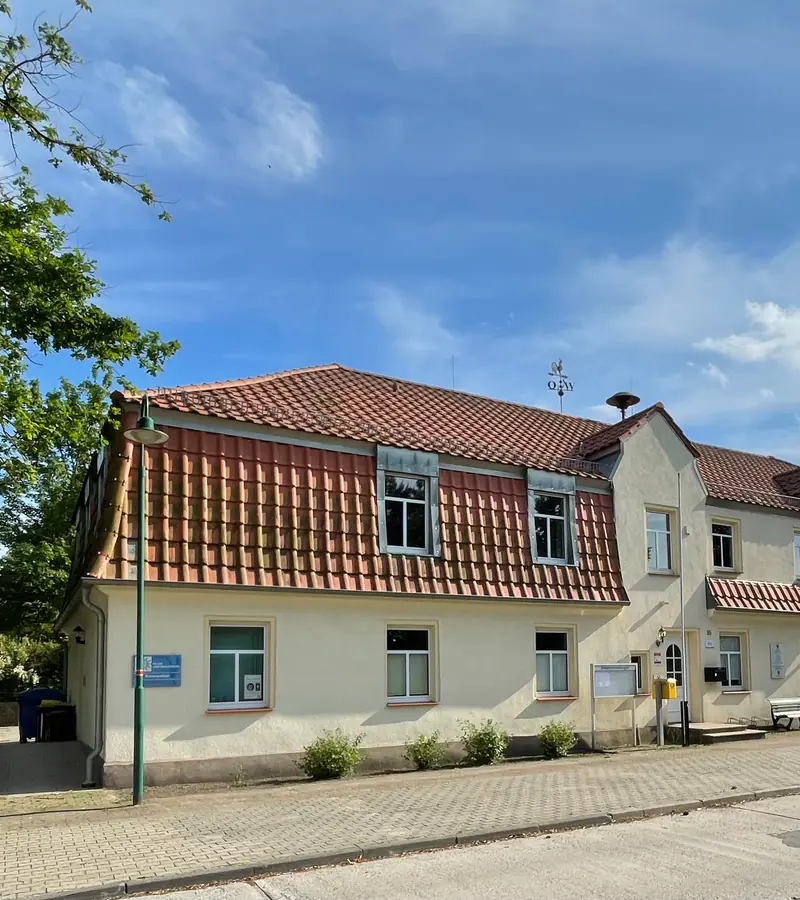
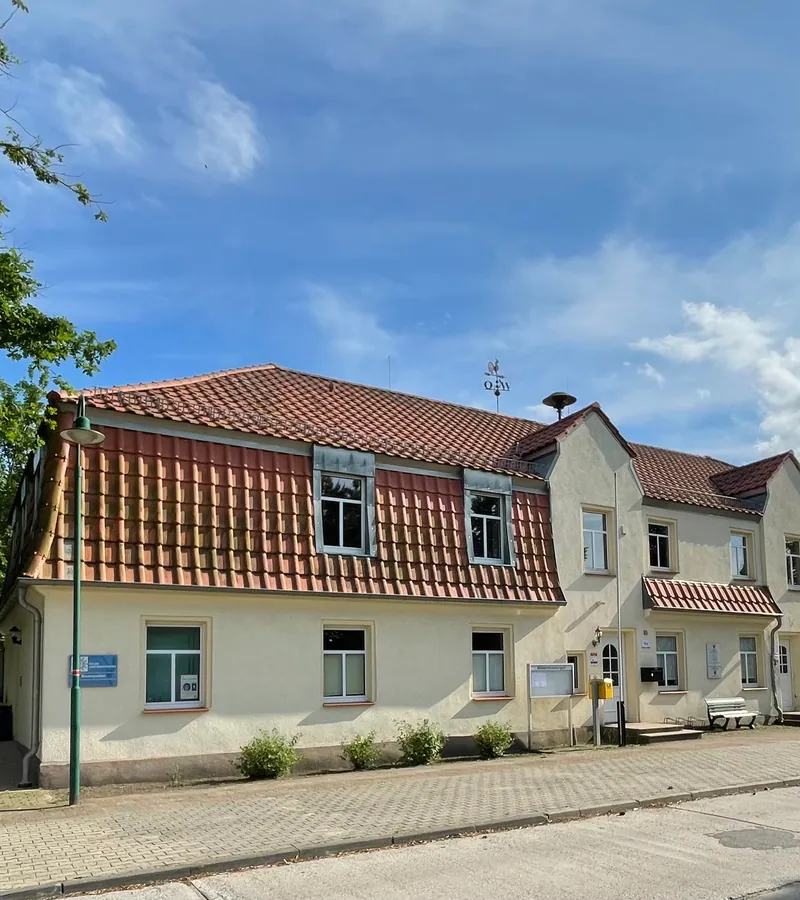
Declare a focal point per motif, and give / the Melkerschule
Every placed image of the four pages this task owns now declares the motif's
focal point, and the five entries whose motif or crop the review of 2026-09-22
names are re-placed with it.

`/` takes the photograph the owner picked (line 29): Wikimedia Commons
`File:Melkerschule Schlatkow.jpg`, Jan-Henrik Hempel, own work, CC BY-SA 4.0 —
a village building in use, which is the motif rule for this page, where the
Rathebur street was a village without activity. Share-alike obliges the site
to attribute, so `content/legal/image-credits.md` gains its line and loses the
Rathebur one.

`/mitmachen` keeps its photograph because no cleared flyer/phone/hand motif
exists, and answers the review's "zu düster und zu traurig" with the crop: the
frame now holds the people, the tables and the fire instead of a grey sky.
`/dein-kalender` is verified rather than swapped — the review says of this very
photo that a Gemeindehaus is already visible. `/ueber-uns` takes the open-air
photograph from the openTransfer CAMP in Neustrelitz (line 436), cleared in
`@schafe-vorm-fenster/people`, cropped so the handwritten name badge stays in
frame; the entry keeps its id, slot, ratio and `lcp: true`, so the declared LCP
element of TS-WEB-0003 D2 is unchanged.

DEC-0139 records the values and the three motifs that stay as they are;
state/open.md 266-269 carry the missing flyer photograph, the Schaukasten
composition, the portrait asset's own "not a portrait" note and the two
[…]

diff --git a/content/legal/image-credits.md b/content/legal/image-credits.md
@@ -14,8 +14,9 @@ anchor: bildnachweise
 Diese Seite nennt jedes Foto, das auf dieser Website zu sehen ist, mit
 Urheber, Lizenz und Quelle. Die Angaben stehen hier und nicht als
 Bildunterschrift am Foto: Wo eine Lizenz die Namensnennung verlangt, ist
-sie an dieser Stelle erfüllt — außer beim Porträt vom NØRD Award 2026,
-dessen Rechteinhaber die Nennung direkt am Bild verlangt.
+sie an dieser Stelle erfüllt — außer beim Porträt vom openTransfer CAMP
+in Neustrelitz, dessen Rechteinhaber die Nennung erbittet und bei dem sie
+deshalb zusätzlich direkt am Bild steht.
 
 Die maßgebliche Liste ist das Bildverzeichnis der Seiten selbst
 (`images:` im Frontmatter unter `content/pages/`). Kommt ein Foto dazu,
@@ -30,7 +31,6 @@ Website sind dieselbe Partei.
 Unter **CC0 1.0** auf Wikimedia Commons veröffentlicht — gemeinfrei, die
 Nennung hier ist freiwillig:
 
-- [Rathebur, Dorfstraße](https://commons.wikimedia.org/wiki/File:Rathebur,_Dorfstra%C3%9Fe.jpg) — Startseite, Hero
 - [Dargitz, Bushaltestelle](https://commons.wikimedia.org/wiki/File:Dargitz,_Bushaltestelle.jpg) — Dein Ort, Hero
 - [Groß Luckow, Feuerwehr und Gemeindezentrum](https://commons.wikimedia.org/wiki/File:Gro%C3%9F_Luckow,_Feuerwehr_und_Gemeindezentrum.jpg) — Dein Ort gründen, Hero
 - [Güterberg, Ausblick](https://commons.wikimedia.org/wiki/File:G%C3%BCterberg,_Ausblick.jpg) — Deine Region, Hero
@@ -40,6 +40,7 @@ Nennung hier ist freiwillig:
 
 Unter **CC BY-SA 4.0** auf Wikimedia Commons veröffentlicht:
 
+- [Melkerschule Schlatkow](https://commons.wikimedia.org/wiki/File:Melkerschule_Schlatkow.jpg) — Startseite, Hero. Jan-Henrik Hempel, [CC BY-SA 4.0](https://creativecommons.org/licenses/by-sa/4.0/deed.de)
 - [Bauhof und Schafstall in Schlatkow](https://commons.wikimedia.org/wiki/File:Bauhof_und_Schafstall_in_Schlatkow.jpeg) — Über uns, Hero. Schafe vorm Fenster, [CC BY-SA 4.0](https://creativecommons.org/licenses/by-sa/4.0/deed.de)
 - [Osterfeuer 2023 in Schmatzin](https://commons.wikimedia.org/wiki/File:Osterfeuer_2023_in_Schmatzin.jpg) — Mitmachen, Hero. Jan-Henrik Hempel, [CC BY-SA 4.0](https://creativecommons.org/licenses/by-sa/4.0/deed.de)
 - [Dorftreffpunkt, Schmatzin](https://commons.wikimedia.org/wiki/File:Dorftreffpunkt,_Schmatzin,_Deutschland.jpeg) — Mitmachen, Publizierweg eigener Kalender. Jan-Henrik Hempel, [CC BY-SA 4.0](https://creativecommons.org/licenses/by-sa/4.0/deed.de)
@@ -54,7 +55,7 @@ nötig:
 ## Aufnahmen Dritter
 
 - [Rathaus Gützkow](https://commons.wikimedia.org/wiki/File:Guetzkow_Ostvorpommern_Rathaus.jpg) — Startseite, Szene Einbindung. Foto: Erell, [CC BY-SA 2.5](https://creativecommons.org/licenses/by-sa/2.5/deed.de), über Wikimedia Commons, unverändert bis auf den Bildausschnitt
-- Porträt vom NØRD Award 2026 — Über uns, Herkunftsblock. Foto: @rightvisionstudios & NØRD2026, freie Nutzung mit Namensnennung. Die Nennung steht zusätzlich am Bild selbst, weil der Rechteinhaber sie dort verlangt
+- Außensession beim openTransfer CAMP Zusammenhalt in Neustrelitz, April 2026 — Über uns, Herkunftsblock. Foto: [openTransfer.de](https://opentransfer.de/dokumentation-camp-neustrelitz/) (Stiftung Bürgermut), freie Nutzung, Namensnennung erbeten. Die Nennung steht zusätzlich am Bild selbst
 
 ## Zuschnitt und Bearbeitung
 

diff --git a/content/pages/ueber-uns/de.md b/content/pages/ueber-uns/de.md
@@ -64,24 +64,34 @@ images:
       content/legal/image-credits.md.
     alt: Schafstall und Bauhof der Gemeinde in Schlatkow, ein weiß gekalkter Stall am Rand einer Wiese.
     licence: CC BY-SA 4.0
+    focal:
+      x: 38
+      "y": 58
     status: real
     file: /images/real/ueber-uns-hero.webp
-    width: 800
-    height: 900
+    width: 680
+    height: 765
     wide_file: /images/real/ueber-uns-hero-wide.webp
-    wide_width: 1400
-    wide_height: 600
+    wide_width: 980
+    wide_height: 420
   - id: ueber-uns-founder-portrait
     slot: ueber-uns-1-origin
     ratio: portrait
     provenance: real
     source: >-
-      @schafe-vorm-fenster/people@0.3.6#jan-henrik-hempel/assets/2026-05-noerdaward2026-DSC09263-portrait.jpeg
-      — `license: free use, credit required`, `press_clearance: cleared`, 1826×1826. Binärdatei
-      liegt im go-to-market-os-Repository, das npm-Paket liefert nur den .asset.md-Deskriptor.
-    alt: Jan-Henrik Hempel blickt in die Kamera, dahinter der abgedunkelte Saal.
-    credit: "@rightvisionstudios & NØRD2026"
-    licence: "Freie Nutzung mit Namensnennung (Rechteinhaber: @rightvisionstudios & NØRD2026)"
+      @schafe-vorm-fenster/people@0.3.6#jan-henrik-hempel/assets/2026-04-otcamp-neustrelitz-outdoor-session.jpeg
+      — `license: free use, credit advised`, `credit: openTransfer.de`, Fotograf: openTransfer.de
+      (Stiftung Bürgermut), openTransfer CAMP Zusammenhalt, Neustrelitz, April 2026, 1717×1717.
+      `press_clearance: cleared` steht im Personenprofil für alle vierzehn Assets. Binärdatei liegt
+      im go-to-market-os-Repository, das npm-Paket liefert nur den .asset.md-Deskriptor.
+    alt: >-
+      Jan-Henrik Hempel sitzt im Freien in einem Stuhlkreis, Programmheft und Stift in den Händen,
+      hinter ihm zwei Transporter.
+    credit: openTransfer.de
+    licence: "Freie Nutzung, Namensnennung erbeten (Rechteinhaber: openTransfer.de / Stiftung Bürgermut)"
+    focal:
+      x: 48
+      "y": 45
     lcp: true
     status: real
     file: /images/real/ueber-uns-founder-portrait.webp
@@ -97,6 +107,9 @@ images:
       im Herkunftsblock, damit die Seite ein Porträt nicht zweimal zeigt.
     alt: Jan-Henrik Hempel erklärt etwas mit beiden Händen, hinter ihm Holzbalken.
     licence: Eigenaufnahme, unbeschränkte Nutzung
+    focal:
+      x: 55
+      "y": 38
     status: real
     file: /images/real/ueber-uns-team-jan-henrik-hempel.webp
     width: 1152

diff --git a/content/pages/ueber-uns/en.md b/content/pages/ueber-uns/en.md
@@ -66,24 +66,34 @@ images:
       The sheep barn and the municipal yard in Schlatkow, a whitewashed shed at the edge of a
       meadow.
     licence: CC BY-SA 4.0
+    focal:
+      x: 38
+      "y": 58
     status: real
     file: /images/real/ueber-uns-hero.webp
-    width: 800
-    height: 900
+    width: 680
+    height: 765
     wide_file: /images/real/ueber-uns-hero-wide.webp
-    wide_width: 1400
-    wide_height: 600
+    wide_width: 980
+    wide_height: 420
   - id: ueber-uns-founder-portrait
     slot: ueber-uns-1-origin
     ratio: portrait
     provenance: real
     source: >-
-      @schafe-vorm-fenster/people@0.3.6#jan-henrik-hempel/assets/2026-05-noerdaward2026-DSC09263-portrait.jpeg
-      — `license: free use, credit required`, `press_clearance: cleared`, 1826×1826. Binärdatei
-      liegt im go-to-market-os-Repository, das npm-Paket liefert nur den .asset.md-Deskriptor.
-    alt: Jan-Henrik Hempel looking into the camera, the darkened hall behind him.
-    credit: "@rightvisionstudios & NØRD2026"
-    licence: "Freie Nutzung mit Namensnennung (Rechteinhaber: @rightvisionstudios & NØRD2026)"
+      @schafe-vorm-fenster/people@0.3.6#jan-henrik-hempel/assets/2026-04-otcamp-neustrelitz-outdoor-session.jpeg
+      — `license: free use, credit advised`, `credit: openTransfer.de`, Fotograf: openTransfer.de
+      (Stiftung Bürgermut), openTransfer CAMP Zusammenhalt, Neustrelitz, April 2026, 1717×1717.
+      `press_clearance: cleared` steht im Personenprofil für alle vierzehn Assets. Binärdatei liegt
+      im go-to-market-os-Repository, das npm-Paket liefert nur den .asset.md-Deskriptor.
+    alt: >-
+      Jan-Henrik Hempel sitting outdoors in a circle of chairs, a programme booklet in one hand, a
+      pen in the other, two vans parked behind him.
+    credit: openTransfer.de
+    licence: "Freie Nutzung, Namensnennung erbeten (Rechteinhaber: openTransfer.de / Stiftung Bürgermut)"
+    focal:
+      x: 48
+      "y": 45
     lcp: true
     status: real
     file: /images/real/ueber-uns-founder-portrait.webp
@@ -99,6 +109,9 @@ images:
       im Herkunftsblock, damit die Seite ein Porträt nicht zweimal zeigt.
     alt: Jan-Henrik Hempel explaining something with both hands raised, timber beams behind him.
     licence: Eigenaufnahme, unbeschränkte Nutzung
+    focal:
+      x: 55
+      "y": 38
     status: real
     file: /images/real/ueber-uns-team-jan-henrik-hempel.webp
     width: 1152

diff --git a/content/pages/home/en.md b/content/pages/home/en.md
@@ -42,14 +42,17 @@ images:
     ratio: hero
     provenance: real
     source: >-
-      Wikimedia Commons, File:Rathebur, Dorfstraße.jpg —
-      https://commons.wikimedia.org/wiki/File:Rathebur,_Dorfstra%C3%9Fe.jpg — Eigenaufnahme von
-      Schafe vorm Fenster (Commons-Konto „Schafevormfenster", own work), Juni 2025, 4032×2585.
-      Nachweis: content/legal/image-credits.md.
+      Wikimedia Commons, File:Melkerschule Schlatkow.jpg —
+      https://commons.wikimedia.org/wiki/File:Melkerschule_Schlatkow.jpg — Eigenaufnahme (Jan-Henrik
+      Hempel, Commons-Konto „J2hcom", own work), September 2016, 5073×2817. Motivregel `/`: Dorf mit
+      Aktivität (SRC-0014 §Motiv pro Seite). Nachweis: content/legal/image-credits.md.
     alt: >-
-      A cobbled street through the village of Rathebur, houses to the left, a fieldstone wall and
-      old trees to the right.
-    licence: CC0 1.0
+      The half-timbered house of the Melkerschule in Schlatkow, with picnic benches, two parasols
+      and guests on the grass in front of it.
+    licence: CC BY-SA 4.0
+    focal:
+      x: 50
+      "y": 55
     status: real
     file: /images/real/home-hero.webp
     width: 800
@@ -70,6 +73,9 @@ images:
       The town hall of Gützkow in Western Pomerania, a white rendered building with a flight of
       steps onto the street.
     licence: CC BY-SA 2.5
+    focal:
+      x: 42
+      "y": 50
     status: real
     file: /images/real/home-scene-embed.webp
     width: 1400
@@ -86,6 +92,9 @@ images:
       Jan-Henrik Hempel standing in the open door of a brick building, the Schafe vorm Fenster
       roll-up banner beside him.
     licence: Eigenaufnahme, unbeschränkte Nutzung
+    focal:
+      x: 45
+      "y": 40
     status: real
     file: /images/real/home-scene-provenance.webp
     width: 1400

diff --git a/content/pages/home/de.md b/content/pages/home/de.md
@@ -42,14 +42,17 @@ images:
     ratio: hero
     provenance: real
     source: >-
-      Wikimedia Commons, File:Rathebur, Dorfstraße.jpg —
-      https://commons.wikimedia.org/wiki/File:Rathebur,_Dorfstra%C3%9Fe.jpg — Eigenaufnahme von
-      Schafe vorm Fenster (Commons-Konto „Schafevormfenster", own work), Juni 2025, 4032×2585.
-      Nachweis: content/legal/image-credits.md.
+      Wikimedia Commons, File:Melkerschule Schlatkow.jpg —
+      https://commons.wikimedia.org/wiki/File:Melkerschule_Schlatkow.jpg — Eigenaufnahme (Jan-Henrik
+      Hempel, Commons-Konto „J2hcom", own work), September 2016, 5073×2817. Motivregel `/`: Dorf mit
+      Aktivität (SRC-0014 §Motiv pro Seite). Nachweis: content/legal/image-credits.md.
     alt: >-
-      Kopfsteinpflasterstraße durch das Dorf Rathebur, links Wohnhäuser, rechts eine Feldsteinmauer
-      und alte Bäume.
-    licence: CC0 1.0
+      Das Fachwerkhaus der Melkerschule in Schlatkow, davor Biertischgarnituren, zwei Sonnenschirme
+      und Gäste auf der Wiese.
+    licence: CC BY-SA 4.0
+    focal:
+      x: 50
+      "y": 55
     status: real
     file: /images/real/home-hero.webp
     width: 800
@@ -70,6 +73,9 @@ images:
       Das Rathaus von Gützkow in Vorpommern, ein weiß verputzter Altbau mit Freitreppe an der
       Straße.
     licence: CC BY-SA 2.5
+    focal:
+      x: 42
+      "y": 50
     status: real
     file: /images/real/home-scene-embed.webp
     width: 1400
@@ -86,6 +92,9 @@ images:
       Jan-Henrik Hempel steht in der offenen Tür eines Backsteinhauses, daneben der Roll-up von
       Schafe vorm Fenster.
     licence: Eigenaufnahme, unbeschränkte Nutzung
+    focal:
+      x: 45
+      "y": 40
     status: real
     file: /images/real/home-scene-provenance.webp
     width: 1400

diff --git a/content/pages/mitmachen/de.md b/content/pages/mitmachen/de.md
@@ -53,13 +53,16 @@ images:
       und das Dorf.
     lcp: true
     licence: CC BY-SA 4.0
+    focal:
+      x: 42
+      "y": 62
     status: real
     file: /images/real/mitmachen-hero.webp
-    width: 800
-    height: 900
+    width: 680
+    height: 765
     wide_file: /images/real/mitmachen-hero-wide.webp
-    wide_width: 1400
-    wide_height: 600
+    wide_width: 1190
+    wide_height: 510
   - id: mitmachen-path-whatsapp
     slot: mitmachen-3-path-whatsapp
     ratio: feature
@@ -73,6 +76,9 @@ images:
       Bushaltestelle an einer Feldsteinmauer in Werbelow, an der Mauer hängen zwei Aushänge, davor
       eine Bank und Blumenkübel.
     licence: CC0 1.0
+    focal:
+      x: 45
+      "y": 55
     status: real
     file: /images/real/mitmachen-path-whatsapp.webp
     width: 1400
@@ -88,6 +94,9 @@ images:
       Nachweis: content/legal/image-credits.md.
     alt: "Dorftreffpunkt in Schmatzin am Abend: eine Wiese mit altem Baum, Feuerstelle und Sitzplatz."
     licence: CC BY-SA 4.0
+    focal:
+      x: 45
+      "y": 58
     status: real
     file: /images/real/mitmachen-path-calendar.webp
     width: 1400
@@ -102,6 +111,9 @@ images:
       im go-to-market-os-Repository, das npm-Paket liefert nur den .asset.md-Deskriptor.
     alt: Schreibtisch mit Monitor, Laptop und Papieren in einem Dachbüro mit historischen Holzbalken.
     licence: Eigenaufnahme, unbeschränkte Nutzung
+    focal:
+      x: 40
+      "y": 55
     status: real
     file: /images/real/mitmachen-path-website.webp
     width: 1400

diff --git a/content/pages/mitmachen/en.md b/content/pages/mitmachen/en.md
@@ -53,13 +53,16 @@ images:
       village behind them.
     lcp: true
     licence: CC BY-SA 4.0
+    focal:
+      x: 42
+      "y": 62
     status: real
     file: /images/real/mitmachen-hero.webp
-    width: 800
-    height: 900
+    width: 680
+    height: 765
     wide_file: /images/real/mitmachen-hero-wide.webp
-    wide_width: 1400
-    wide_height: 600
+    wide_width: 1190
+    wide_height: 510
   - id: mitmachen-path-whatsapp
     slot: mitmachen-3-path-whatsapp
     ratio: feature
@@ -73,6 +76,9 @@ images:
       A bus stop against a fieldstone wall in Werbelow, two notices taped to the wall, a bench and
       flower pots in front.
     licence: CC0 1.0
+    focal:
+      x: 45
+      "y": 55
     status: real
     file: /images/real/mitmachen-path-whatsapp.webp
     width: 1400
@@ -90,6 +96,9 @@ images:
       The village meeting place in Schmatzin in the evening: a meadow with an old tree, a fire pit
       and a place to sit.
     licence: CC BY-SA 4.0
+    focal:
+      x: 45
+      "y": 58
     status: real
     file: /images/real/mitmachen-path-calendar.webp
     width: 1400
@@ -104,6 +113,9 @@ images:
       im go-to-market-os-Repository, das npm-Paket liefert nur den .asset.md-Deskriptor.
     alt: A desk with a monitor, a laptop and papers in an attic office with historic timber beams.
     licence: Eigenaufnahme, unbeschränkte Nutzung
+    focal:
+      x: 40
+      "y": 55
     status: real
     file: /images/real/mitmachen-path-website.webp
     width: 1400

diff --git a/content/pages/dein-kalender/en.md b/content/pages/dein-kalender/en.md
@@ -58,6 +58,9 @@ images:
       3604×2229. Nachweis: content/legal/image-credits.md.
     alt: The municipal office of Uckerland in Lübbenow, a long building on the village street.
     licence: CC0 1.0
+    focal:
+      x: 45
+      "y": 55
     status: real
     file: /images/real/dein-kalender-hero.webp
     width: 800

diff --git a/content/pages/dein-kalender/de.md b/content/pages/dein-kalender/de.md
@@ -60,6 +60,9 @@ images:
       Das Amtsgebäude der Gemeinde Uckerland in Lübbenow, ein langgestrecktes Haus an der
       Dorfstraße.
     licence: CC0 1.0
+    focal:
+      x: 45
+      "y": 55
     status: real
     file: /images/real/dein-kalender-hero.webp
     width: 800
